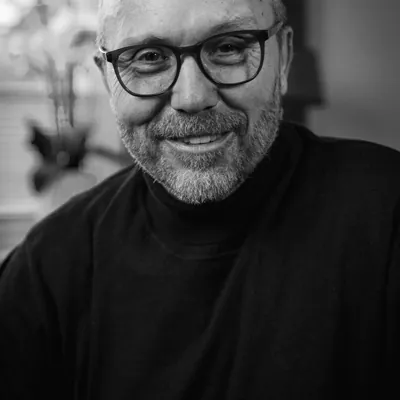
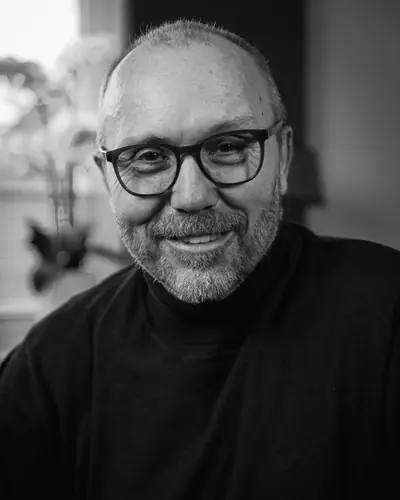
fix(website): Portrait-Derivate 4:5 ab y=0 — Oberkopf nicht mehr abgeschnitten [T002507]
Die ausgelieferten Derivate waren quadratisch aus der Mitte des hochkanten
Originals geschnitten (Ausschnitt y=340..1705 von 2048, per Pixel-Match
verifiziert) — der Oberkopf fehlte in der Datei selbst, nicht erst im
Rendering.

- scripts/build-portrait-derivatives.sh: erzeugt alle vier Derivate
  reproduzierbar, Ausschnitt am oberen Rand verankert (y=0), Seitenverhaeltnis
  4:5 wie der .portrait-Rahmen. Bricht ohne AVIF-Encoder hart ab statt still
  WebP-only zu schreiben.
- Derivate neu: 600x750 / 400x500. Qualitaeten gegen die Vorgaengergroessen
  kalibriert, damit der Hero als LCP-Element nicht teurer wird
  (AVIF 11834 B gegen vorher 9671 B bei 25 % mehr Flaeche).
- Portrait.svelte: height 600 -> 750; object-position auf center reduziert.
  Der Y-Anteil war schon vorher wirkungslos — bei quadratischer Quelle in
  einem 4:5-Rahmen entsteht der cover-Ueberhang horizontal.
- website-core.bats: erwartete Hoehe nachgezogen; der Kongruenz-Check gegen
  die echte Datei liegt in tests/spec/website-core/portrait-derivate-crop.bats.

Closes T002507

Claude-Session: https://claude.ai/code/session_01MXsAWMS1rAfjhi23ncMH8L

diff --git a/website/src/components/Portrait.svelte b/website/src/components/Portrait.svelte
@@ -32,7 +32,7 @@
       <picture>
         <source srcset={`${baseName}.avif 600w, ${baseName}-400.avif 400w`} sizes="(max-width: 720px) 400px, 600px" type="image/avif" />
         <source srcset={`${baseName}-400.webp 400w`} sizes="(max-width: 720px) 400px, 600px" type="image/webp" />
-        <img src={avatarSrc} alt={`${name}, ${role}`} loading="eager" fetchpriority="high" width="600" height="600" />
+        <img src={avatarSrc} alt={`${name}, ${role}`} loading="eager" fetchpriority="high" width="600" height="750" />
       </picture>
       <!-- Duotone wash -->
       <div class="duotone" aria-hidden="true"></div>
@@ -133,7 +133,12 @@
     width: 100%;
     height: 100%;
     object-fit: cover;
-    object-position: center 18%;
+    /* Kein Y-Anteil: die Derivate tragen seit T002507 dasselbe Seitenverhaeltnis
+       wie dieser Rahmen, es gibt in keiner Achse Ueberhang zu verteilen. Der
+       frueher hier stehende Wert (18%) war schon davor wirkungslos — bei
+       quadratischer Quelle in 4:5 skaliert cover auf die Hoehe, der Ueberhang
+       entstand horizontal. Er suggerierte einen Kopf-Schutz, den er nie leistete. */
+    object-position: center;
     filter: contrast(1.04) brightness(1.02) sepia(.18) saturate(1.05);
     transition: filter .5s ease, transform .8s ease;
   }

diff --git a/website/src/components/Portrait.test.ts b/website/src/components/Portrait.test.ts
@@ -19,6 +19,29 @@ describe('Portrait.svelte', () => {
     expect(img?.getAttribute('src')).toBe('/gerald.jpg');
   });
 
+  // T002507: Die reservierte Layout-Flaeche muss dem echten Bild entsprechen.
+  // Zuvor deklarierte die Komponente 600x600 — passend zu den quadratischen
+  // Derivaten, die den Oberkopf abgeschnitten hatten. Beim Umstellen auf 4:5
+  // muessen beide Seiten mitwandern, sonst reserviert der Browser die falsche
+  // Box und die width/height-Attribute verursachen genau den Layout-Shift, den
+  // sie verhindern sollen.
+  it('declares the 4:5 intrinsic dimensions of the portrait derivatives', () => {
+    const { container } = render(Portrait, {
+      props: {
+        avatarType: 'image',
+        avatarSrc: '/gerald.webp',
+        name: 'Gerald Korczewski',
+        role: 'Coach & digitaler Begleiter',
+      },
+    });
+    const img = container.querySelector('img') as HTMLImageElement | null;
+    const width = Number(img?.getAttribute('width'));
+    const height = Number(img?.getAttribute('height'));
+    expect(width).toBe(600);
+    expect(height).toBe(750);
+    expect(width * 5).toBe(height * 4);
+  });
+
   it('renders initials placeholder when avatarType is initials', () => {
     const { container } = render(Portrait, {
       props: {
